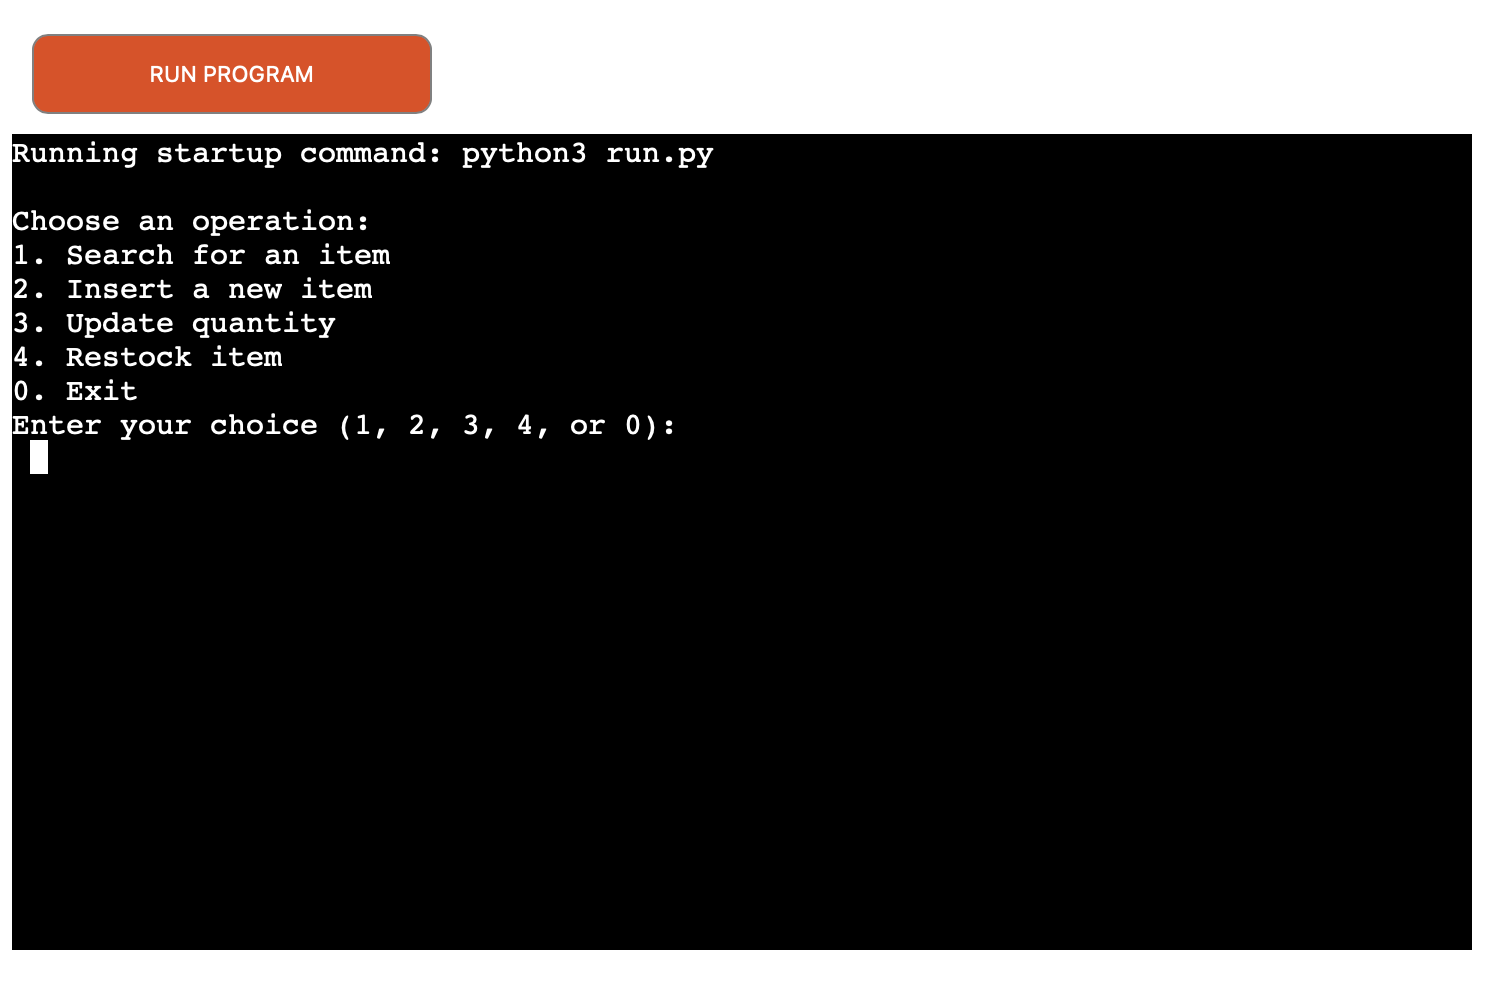
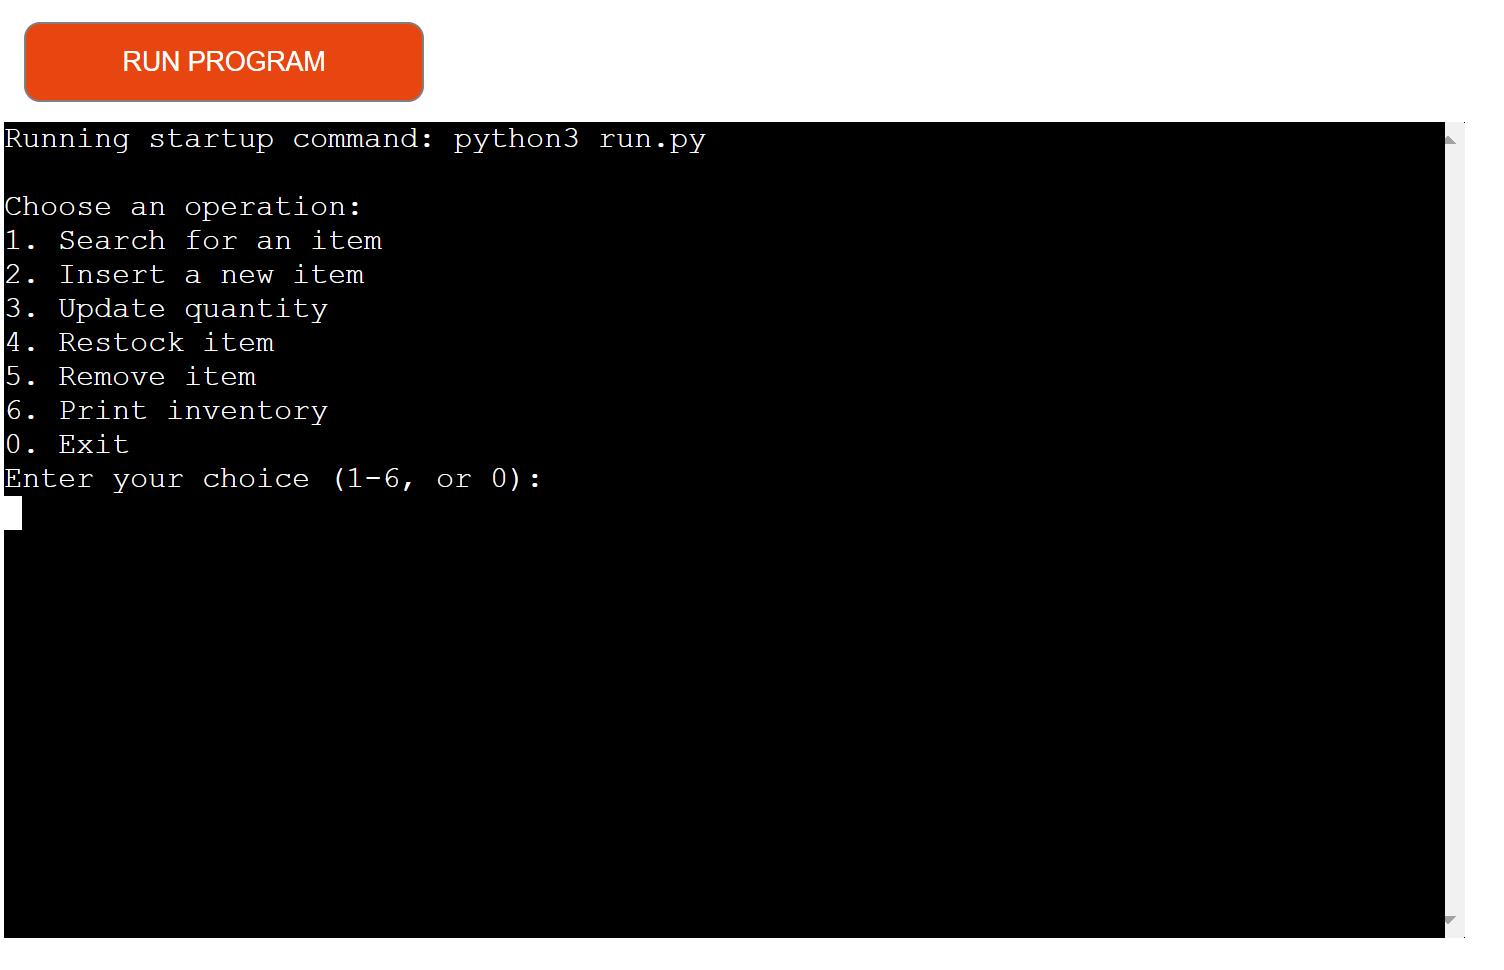
updated readme

Changed region(s): [[0.0, 0.0, 1.0, 0.9897], [0.3438, 0.4021, 0.4375, 0.433]]

diff --git a/README.md b/README.md
@@ -1,7 +1,7 @@
-
 # Inventory Tracker
 
-This is a Python code for an Inventory Tracker that uses Google Sheets to store and manage item data. The code provides functionality to connect to a Google Sheets document, create an inventory table, insert new items, search for items, update item quantities, restock items
+This is a Python code for an Inventory Tracker that uses Google Sheets to store and manage item data. The code provides functionality to connect to a Google Sheets document, create an inventory table, insert new items, search for items, update item quantities, restock items, remove items, and print the inventory.
+
 ![picture of Website logo](program.png)
 
 ## Prerequisites
@@ -16,62 +16,120 @@ Before running the code, ensure that you have the following:
 1. Make sure you have a Google Sheets document created for your inventory.
 2. Create a service account and download the service account key file (JSON format) from the Google Cloud Console.
 3. Rename the service account key file to `credentials.json` and place it in the same directory as the Python script.
-4. Open the `inventory_tracker.py` file and modify the `DOCUMENT_NAME` constant to match your Google Sheets document name.
+4. Open the `inventory_tracker.py` file.
 5. Run the Python script using `python inventory_tracker.py`.
 
 ## Usage
 
-1. Upon running the code, the program will display a menu with the following options:
-   - Search for an item
-   - Insert a new item
-   - Update quantity
-   - Restock item
-   - Exit
+Upon running the code, the program will display a menu with the following options:
 
-2. Follow the prompts and enter the appropriate information for each operation.
+1. Search for an item
+2. Insert a new item
+3. Update quantity
+4. Restock item
+5. Remove item
+6. Print inventory
+0. Exit
+
+Enter the number corresponding to the desired operation and follow the prompts to provide the necessary information.
 
 ## Example
 
 Choose an operation:
+1. Search for an item
+2. Insert a new item
+3. Update quantity
+4. Restock item
+5. Remove item
+6. Print inventory
+0. Exit
 
-1.  Search for an item
-2.  Insert a new item
-3.  Update quantity
-4.  Restock item
-5.  Exit Enter your choice (1, 2, 3, 4, or 0): 2 Enter item model: Laptop Enter initial quantity: 5 Item added successfully.
-
-Choose an operation:
-
-1.  Search for an item
-2.  Insert a new item
-3.  Update quantity
-4.  Restock item
-5.  Exit Enter your choice (1, 2, 3, 4, or 0): 1 Enter the item model or shorthand code to search: Laptop Matching items: Item: Laptop, Quantity: 5
+Enter your choice (1-6, or 0): 2
+Enter item model: Laptop
+Enter initial quantity: 5
+Item added successfully.
 
 Choose an operation:
+1. Search for an item
+2. Insert a new item
+3. Update quantity
+4. Restock item
+5. Remove item
+6. Print inventory
+0. Exit
 
-1.  Search for an item
-2.  Insert a new item
-3.  Update quantity
-4.  Restock item
-5.  Exit Enter your choice (1, 2, 3, 4, or 0): 3 Enter the item model to update quantity: Laptop Enter the quantity sold during the daily sale: 2 Quantity updated for Laptop: 3
-
-Choose an operation:
-
-1.  Search for an item
-2.  Insert a new item
-3.  Update quantity
-4.  Restock item
-5.  Exit Enter your choice (1, 2, 3, 4, or 0): 4 Enter the item model to restock: Laptop Enter the additional quantity to be added: 10 Item restocked successfully. Matching items: Item: Laptop, Quantity: 13
+Enter your choice (1-6, or 0): 1
+Enter the item model or shorthand code to search: Laptop
+Matching items:
+Item: Laptop, Quantity: 5
 
 Choose an operation:
+1. Search for an item
+2. Insert a new item
+3. Update quantity
+4. Restock item
+5. Remove item
+6. Print inventory
+0. Exit
 
-1.  Search for an item
-2.  Insert a new item
-3.  Update quantity
-4.  Restock item
-5.  Exit Enter your choice (1, 2, 3, 4, or 0): 0 Exiting the inventory tracking application.
+Enter your choice (1-6, or 0): 3
+Enter the item model to update quantity: Laptop
+Enter the quantity sold during the daily sale: 2
+Quantity updated for Laptop: 3
 
+Choose an operation:
+1. Search for an item
+2. Insert a new item
+3. Update quantity
+4. Restock item
+5. Remove item
+6. Print inventory
+0. Exit
+
+Enter your choice (1-6, or 0): 4
+Enter the item model to restock: Laptop
+Enter the additional quantity to be added: 10
+Item restocked successfully.
+Matching items:
+Item: Laptop, Quantity: 13
+
+Choose an operation:
+1. Search for an item
+2. Insert a new item
+3. Update quantity
+4. Restock item
+5. Remove item
+6. Print inventory
+0. Exit
+
+Enter your choice (1-6, or 0): 5
+Enter the item model to remove: Laptop
+Item 'Laptop' removed successfully.
+
+Choose an operation:
+1. Search for an item
+2. Insert a new item
+3. Update quantity
+4. Restock item
+5. Remove item
+6. Print inventory
+0. Exit
+
+Enter your choice (1-6, or 0): 6
+Inventory List:
+Inventory is empty.
+
+Choose an operation:
+1. Search for an item
+2. Insert a new item
+3. Update quantity
+4. Restock item
+5. Remove item
+6. Print inventory
+0. Exit
+
+Enter your choice (1-6, or 0): 0
+Exiting the inventory tracking application.
 
 ## Database Structure
 
@@ -83,19 +141,20 @@ The inventory is stored in a Google Sheets document with the following columns:
 
 - When searching for an item, you can enter either the item model or a shorthand code. The application will return matching items based on the input.
 - When inserting a new item, the application will automatically generate a unique stock number for the item.
-- If multiple items.
 
 ## Issues Found
-Method Restock was not finding the items. `I should've been using `get_all_values()`and not get_all_records()`, 
 
+The `Restock` method was not finding the items. The code should have been using `get_all_values()` instead of `get_all_records()`.
 
 ## Acknowledgements
 
 The Inventory Tracker application was developed as a programming school project.
 
-## Future additions
+## Future Additions
 
-The addition of a UI
+The addition of a UI.
+
+
 
 ## DEPLOYMENT
 I Created an account on HEROKU and configured it
